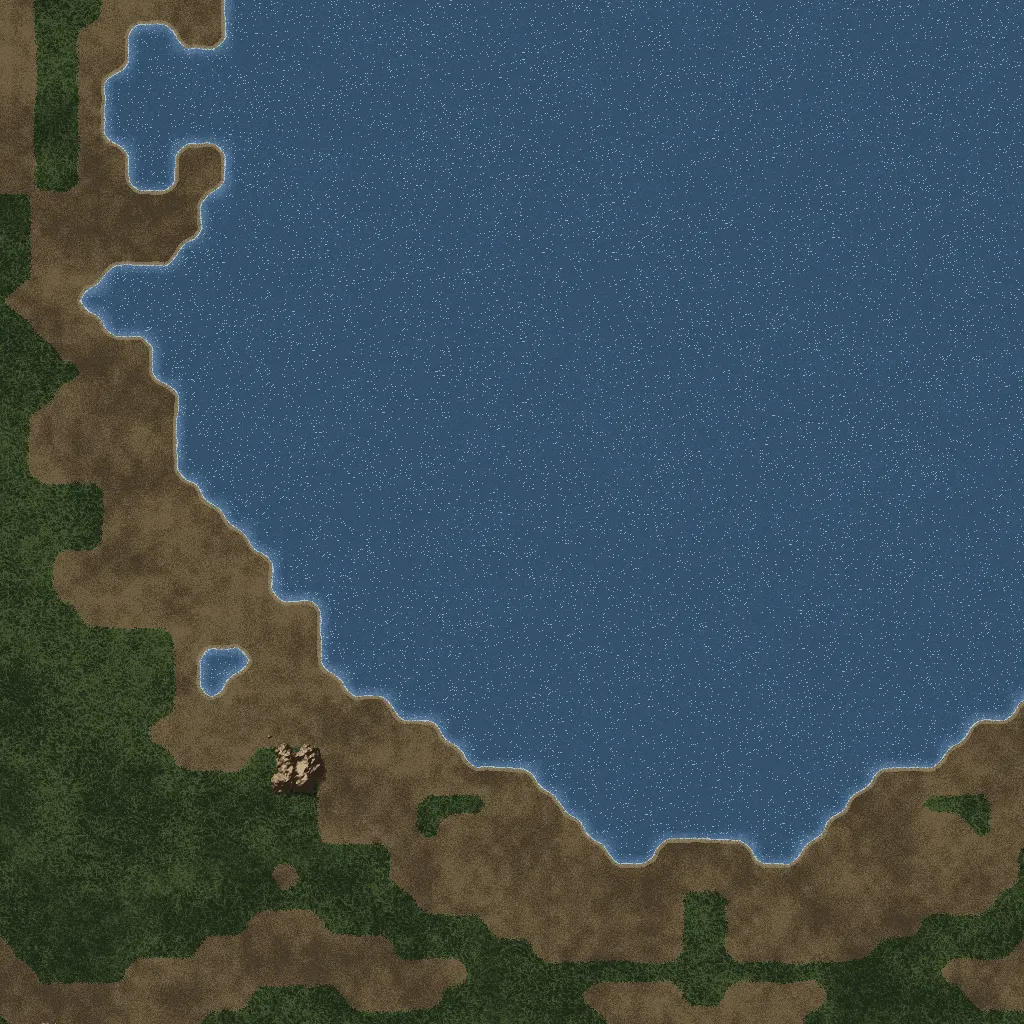
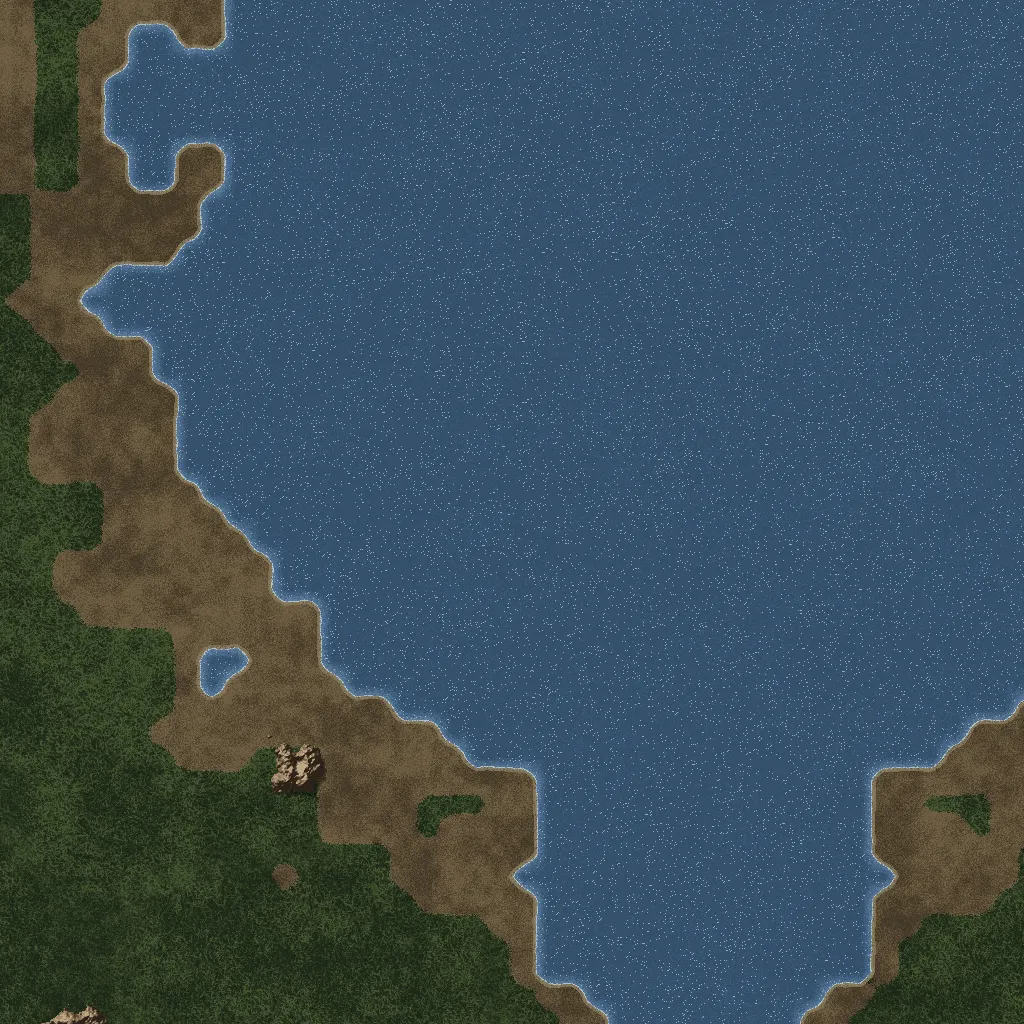
Crossroads Village: the lakes reach the village so armies fight in it
The computer sent its west-east attacks along the open strip of grass between each big
lake and the village, so fights in the village almost never happened. Each lake now has
a stub down to the village's outer lane (and the shore road is gone), so routes pass the
village's north and south gates instead. 12-minute games of four Hard computers: units
killed inside the village 8 of 269 and 151 of 335 before, 165 of 327 and 181 of 373 now.
The generator's default is the new layout (VARIANT=old for the previous one). Ground
rebaked, map picture redrawn.

Claude-Session: https://claude.ai/code/session_018itzs54bsaKMKKDrQKw9XP

Changed region(s): [[0.5, 0.75, 0.875, 1.0], [0.0, 0.875, 0.4688, 1.0], [0.9062, 0.9062, 1.0, 1.0]]

diff --git a/src/maps.js b/src/maps.js
@@ -835,23 +835,23 @@ const MAPS = {
       '5T15.4,5.3,3.3T11.12,22~12,11.3T3.3,5.4,15.5T',
       '3T17.4,6.3,2.3T12.3,.2#6,20~6,2#.3,12.3T2.3,6.4,17.3T',
       'T19.3,8.4,3T16.2#9,14~9,2#16.3T4,8.3,19.T',
-      '20.3,9.5,3T16.4,3T3,12~3,3T4,16.3T5,9.3,20.',
-      '20.3,9.T5,7T11.4,T6,10~6,T4,11.7T5,T9.3,20.',
-      '20.3,8.4T4,6T14.9,2~4,2~9,14.6T4,4T8.3,20.',
-      '7.6o7.3,7.6T4,6T8.,4.26,4.,8.6T4,6T7.3,8.5o7.',
-      '5.9o6.3,7.2T.4T4,3.3T11.T.11,2.11,.T11.3T3.4,4T.2T7.3,6.9o5.',
-      '4.11o5.3,T6.T6.5,3.T7.3,2.T2.2T8,2.8,2T2.T2.3,7.T3.5,6.T6.T3,5.11o4.',
-      '4.11o4.4,T5.3T6.5,8.8,2.4T6,2.6,4T2.8,8.5,6.3T5.T4,4.11o4.',
-      '3.13o2.5,.3T2.3T6.6,4.14,T2.2T10.2T2.T14,4.6,6.3T2.3T.5,2.13o3.',
-      '3.13o2.4,5T2.2T7.15,4.4,6.4,2.4,6.4,4.15,7.2T2.5T4,2.13o3.',
-      '3.13o2.T3,7T9.4,.8,8.T8.8,8.T8.8,.4,9.7T3,T2.13o3.',
-      '3.13o2.4,5T12.3,.3#2,11.T8.3,2.3,8.T11.2,3#.3,12.5T4,2.13o3.',
-      '3.13o2.4,5T13.3,4#22.2,2.2,22.4#3,13.5T4,2.12o4.',
-      '4.11o2.T4,4T14.4,2#23.2,2.2,23.2#4,14.4T4,T.12o4.',
-      '5.9o3.T3,5T15.4,24.2,2.2,24.4,15.5T3,T2.10o5.',
-      '5.9o2.3T2,4T5.2o10.5,7.5T10.2,2.2,10.5T7.5,10.o6.4T2,3T3.7o6.',
-      '7.4o5.3T2,4T3.6o9.6,20.6,20.6,9.5o4.4T2,3T4.5o7.',
-      '14.4T3,4T3.7o9.9,17.4,17.9,9.7o3.4T3,4T14.',
+      '20.3,9.5,3T16.4,3T2,14~2,3T4,16.3T5,9.3,20.',
+      '20.3,9.T5,7T11.4,T4,14~4,T4,11.7T5,T9.3,20.',
+      '20.3,8.4T4,6T14.6,14~6,14.6T4,4T8.3,20.',
+      '7.6o7.3,7.6T3,7T8.,4.5,16~5,4.,8.7T3,6T7.3,8.5o7.',
+      '5.9o6.3,7.2T.4T3,4.3T11.T.5,14~5,.T11.3T4.3,4T.2T7.3,6.9o5.',
+      '4.11o5.3,T6.T6.3,5.T12.T2.2T2,14~2,2T2.T12.T5.3,6.T6.T3,5.11o4.',
+      '4.11o4.4,T5.3T6.3,17.T2.3T,14~,3T2.T17.3,6.3T5.T4,4.11o4.',
+      '3.13o2.5,.3T2.3T6.3,17.T2.2T.,14~,.2T2.T17.3,6.3T2.3T.5,2.13o3.',
+      '3.13o2.4,5T2.2T7.3,19.T4.2,10~2,4.T19.3,7.2T2.5T4,2.13o3.',
+      '3.13o2.T3,7T9.4,3.2#12.T6.2,8~2,6.T12.2#3.4,9.7T3,T2.13o3.',
+      '3.13o2.4,5T12.3,.4#12.T6.2,8~2,6.T12.4#.3,12.5T4,2.13o3.',
+      '3.13o2.4,5T13.3,4#19.2,8~2,19.4#3,13.5T4,2.12o4.',
+      '4.11o2.T4,4T14.4,2#20.2,8~2,20.2#4,14.4T4,T.12o4.',
+      '5.9o3.T3,5T15.4,21.2,8~2,21.4,15.5T3,T2.10o5.',
+      '5.9o2.3T2,4T5.2o10.5,7.5T6.3,8~3,6.5T7.5,10.o6.4T2,3T3.7o6.',
+      '7.4o5.3T2,4T3.6o9.6,16.5,4~5,16.6,9.5o4.4T2,3T4.5o7.',
+      '14.4T3,4T3.7o9.9,13.5,2~5,13.9,9.7o3.4T3,4T14.',
       '12.6T3,4T3.7o10.54,10.7o3.4T3,6T12.',
       '12.6T3,4T3.8o10.52,11.8o2.4T3,6T12.',
       '12.6T3,4T3.8o11.5,6.2,10.4,10.2,6.5,12.8o2.4T3,6T12.',
@@ -896,23 +896,23 @@ const MAPS = {
       '12.6T3,4T2.9o11.5,6.2,10.4,10.2,6.5,12.8o2.4T3,6T12.',
       '12.6T3,4T3.8o10.52,10.9o2.4T3,6T12.',
       '12.6T3,4T2.9o9.54,10.8o2.4T3,6T12.',
-      '14.4T3,4T3.7o9.9,17.4,17.9,9.7o3.4T3,4T14.',
-      '6.6o4.3T2,4T4.6o8.6,20.6,20.6,9.5o4.4T2,3T4.5o7.',
-      '5.9o2.3T2,4T6.o10.5,7.5T10.2,2.2,10.5T7.5,17.4T2,3T3.8o5.',
-      '5.10o2.T3,5T15.4,24.2,2.2,24.4,15.5T3,T3.10o4.',
-      '4.11o2.T4,4T14.4,2#23.2,2.2,23.2#4,14.4T4,T2.11o4.',
-      '3.13o2.4,5T13.3,4#22.2,2.2,22.4#3,13.5T4,2.13o3.',
-      '3.13o2.4,5T12.3,.3#2,11.T8.3,2.3,8.T11.2,3#.3,12.5T4,2.13o3.',
-      '3.13o2.T3,7T9.4,.8,8.T8.8,8.T8.8,.4,9.7T3,T2.13o3.',
-      '3.13o2.4,5T2.2T7.15,4.4,6.4,2.4,6.4,4.15,7.2T2.5T4,2.13o3.',
-      '3.13o2.5,.3T2.3T6.6,4.14,T2.2T10.2T2.T14,4.6,6.3T2.3T.5,2.13o3.',
-      '3.12o4.4,T5.3T6.5,8.8,2.4T6,2.6,4T2.8,8.5,6.3T5.T4,4.12o3.',
-      '4.11o5.3,T6.T6.5,3.T7.3,2.T2.2T8,2.8,2T2.T2.3,7.T3.5,6.T6.T3,5.11o4.',
-      '6.8o6.3,7.2T.4T4,3.3T11.T.11,2.11,.T11.3T3.4,4T.2T7.3,6.9o5.',
-      '7.5o8.3,7.6T4,6T8.,4.26,4.,8.6T4,6T7.3,8.5o7.',
-      '20.3,8.4T4,6T14.9,2~4,2~9,14.6T4,4T8.3,20.',
-      '20.3,9.T5,7T11.4,T6,10~6,T4,11.7T5,T9.3,20.',
-      '20.3,9.5,3T16.4,3T3,12~3,3T4,16.3T5,9.3,20.',
+      '14.4T3,4T3.7o9.9,13.5,2~5,13.9,9.7o3.4T3,4T14.',
+      '6.6o4.3T2,4T4.6o8.6,16.5,4~5,16.6,9.5o4.4T2,3T4.5o7.',
+      '5.9o2.3T2,4T6.o10.5,7.5T6.3,8~3,6.5T7.5,17.4T2,3T3.8o5.',
+      '5.10o2.T3,5T15.4,21.2,8~2,21.4,15.5T3,T3.10o4.',
+      '4.11o2.T4,4T14.4,2#20.2,8~2,20.2#4,14.4T4,T2.11o4.',
+      '3.13o2.4,5T13.3,4#19.2,8~2,19.4#3,13.5T4,2.13o3.',
+      '3.13o2.4,5T12.3,.4#12.T6.2,8~2,6.T12.4#.3,12.5T4,2.13o3.',
+      '3.13o2.T3,7T9.4,3.2#12.T6.2,8~2,6.T12.2#3.4,9.7T3,T2.13o3.',
+      '3.13o2.4,5T2.2T7.3,19.T4.2,10~2,4.T19.3,7.2T2.5T4,2.13o3.',
+      '3.13o2.5,.3T2.3T6.3,17.T2.2T.,14~,.2T2.T17.3,6.3T2.3T.5,2.13o3.',
+      '3.12o4.4,T5.3T6.3,17.T2.3T,14~,3T2.T17.3,6.3T5.T4,4.12o3.',
+      '4.11o5.3,T6.T6.3,5.T12.T2.2T2,14~2,2T2.T12.T5.3,6.T6.T3,5.11o4.',
+      '6.8o6.3,7.2T.4T3,4.3T11.T.5,14~5,.T11.3T4.3,4T.2T7.3,6.9o5.',
+      '7.5o8.3,7.6T3,7T8.,4.5,16~5,4.,8.7T3,6T7.3,8.5o7.',
+      '20.3,8.4T4,6T14.6,14~6,14.6T4,4T8.3,20.',
+      '20.3,9.T5,7T11.4,T4,14~4,T4,11.7T5,T9.3,20.',
+      '20.3,9.5,3T16.4,3T2,14~2,3T4,16.3T5,9.3,20.',
       'T19.3,8.4,3T16.2#9,14~9,2#16.3T4,8.3,19.T',
       '3T17.4,6.3,2.3T12.3,.2#6,20~6,2#.3,12.3T2.3,6.4,17.3T',
       '5T15.4,5.3,3.3T11.12,22~12,11.3T3.3,5.4,15.5T',

diff --git a/tools/make-village-map.py b/tools/make-village-map.py
@@ -41,9 +41,10 @@ def seg_dist(px, py, ax, ay, bx, by):
 
 
 S = lambda v: v * K
-# VARIANT (env, for trying layouts; none is the shipped one): 'a' the lakes reach down to the village, 'b' the same with a
-# shallow ford across each, 'c' woods fill the strip between each lake and the village.
-VARIANT = os.environ.get('VARIANT', '')
+# VARIANT (env): 'a' (the default, shipped) the lakes reach down to the village's outer lane, so west-east armies cannot pass
+# along the open strip between lake and village; 'b' the same with a shallow ford across each; 'c' woods fill the strip (the
+# shore stays open, so it does not work); 'old' the first layout, an open strip.
+VARIANT = os.environ.get('VARIANT', 'a')
 BASE = (S(22), S(24))
 BASE_CLEAR = 14
 # Village, in the quarter (cells up to the middle line): the lane round it, side lanes, a main street, the square.
@@ -53,9 +54,9 @@ ORE = [(S(9), S(42), 7), (S(41), S(9), 6), (S(10), S(63), 5.5), (S(31), S(51), 4
 GEMS = [(S(63.5), S(44), 2.6), (S(45.5), S(57), 2.6)]   # by the village's north (south) gates and its west (east) side
 ROADS = [   # dirt tracks: [points], half width
     ([BASE, (S(36), S(37)), (S(50), S(51))], 1.6),
-    *([([(S(36), S(37)), (S(50), S(41)), (S(71.5), S(41))], 1.4)] if not VARIANT else []),   # along the lake shore to the base across (mirrored)
+    *([([(S(36), S(37)), (S(50), S(41)), (S(71.5), S(41))], 1.4)] if VARIANT == 'old' else []),   # along the lake shore to the base across (mirrored)
     ([BASE, (S(21), S(46)), (S(22), S(71.5))], 1.4),   # to the ally's base
-    *([([(S(71.5), S(41)), (S(70.5), S(50))], 1.5)] if not VARIANT else []),        # the main street out to the lake road
+    *([([(S(71.5), S(41)), (S(70.5), S(50))], 1.5)] if VARIANT == 'old' else []),        # the main street out to the lake road
     ([(S(22), S(71.5)), (S(50), S(70.5))], 1.5),        # and out to the west road
     ([(S(9), S(42)), (S(21), S(40))], 1.2),             # out to the ore fields
     ([(S(41), S(9)), (S(36), S(25))], 1.2),

diff --git a/CLAUDE.md b/CLAUDE.md
@@ -397,6 +397,12 @@ share globals. Read this file first; the commit history explains every change in
   `python3 tools/make-village-map.py` (no design picture: one quarter worked out in code and mirrored both ways; it prints
   `spawns`, `gems`, `lots` and `rows` to paste over the entry). Big lakes on the north and south edges push west-east
   traffic through or beside the village (with plain ponds there, 14 minutes of computer play never fought in it).
+  **The lakes reach the village** (owner's pick of A, after the first test: the computer hugged the water and almost never fought in the
+  village): each lake has a stub down to the village's outer lane (`VARIANT=a`, now the generator's default; `old`, `b`, `c` for the other
+  layouts), and the shore road is gone. Before, west-east armies took the open strip between lake and village; C (woods in the strip) did
+  not work because the shore stays walkable. 12-minute 4-computer Hard games, units killed inside the village: seed 21 8 of 269 (3%) to
+  165 of 327 (50%), seed 22 151 of 335 (45%) to 181 of 373 (49%); houses hurt 6 / 16 to 19 / 24. The routes along the north and south
+  edges now run along the village's outer lane and the gate gems.
   **Ore** (owner: "add more ore", after 2026.11.16): four fields per start (three by the base, one forward toward the village),
   about 449,000 ore in all (224,000 per alliance's half; Three Crossings 197,000), and 8 gem fields (4 at the village's north
   and south gates, 4 beside the side ponds, moved off the water), about 48,000. Every field reachable from a start.
